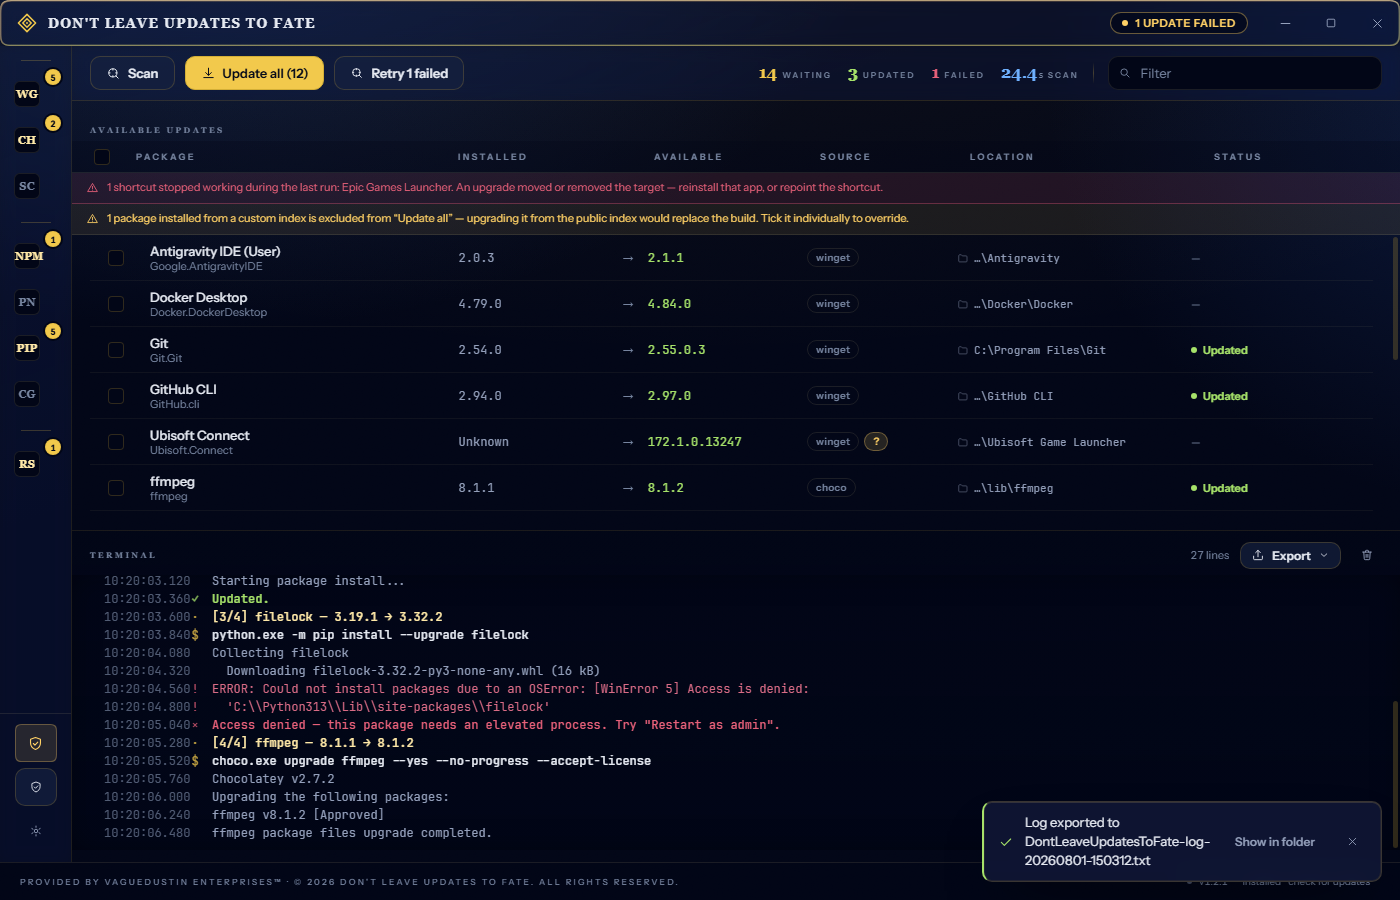
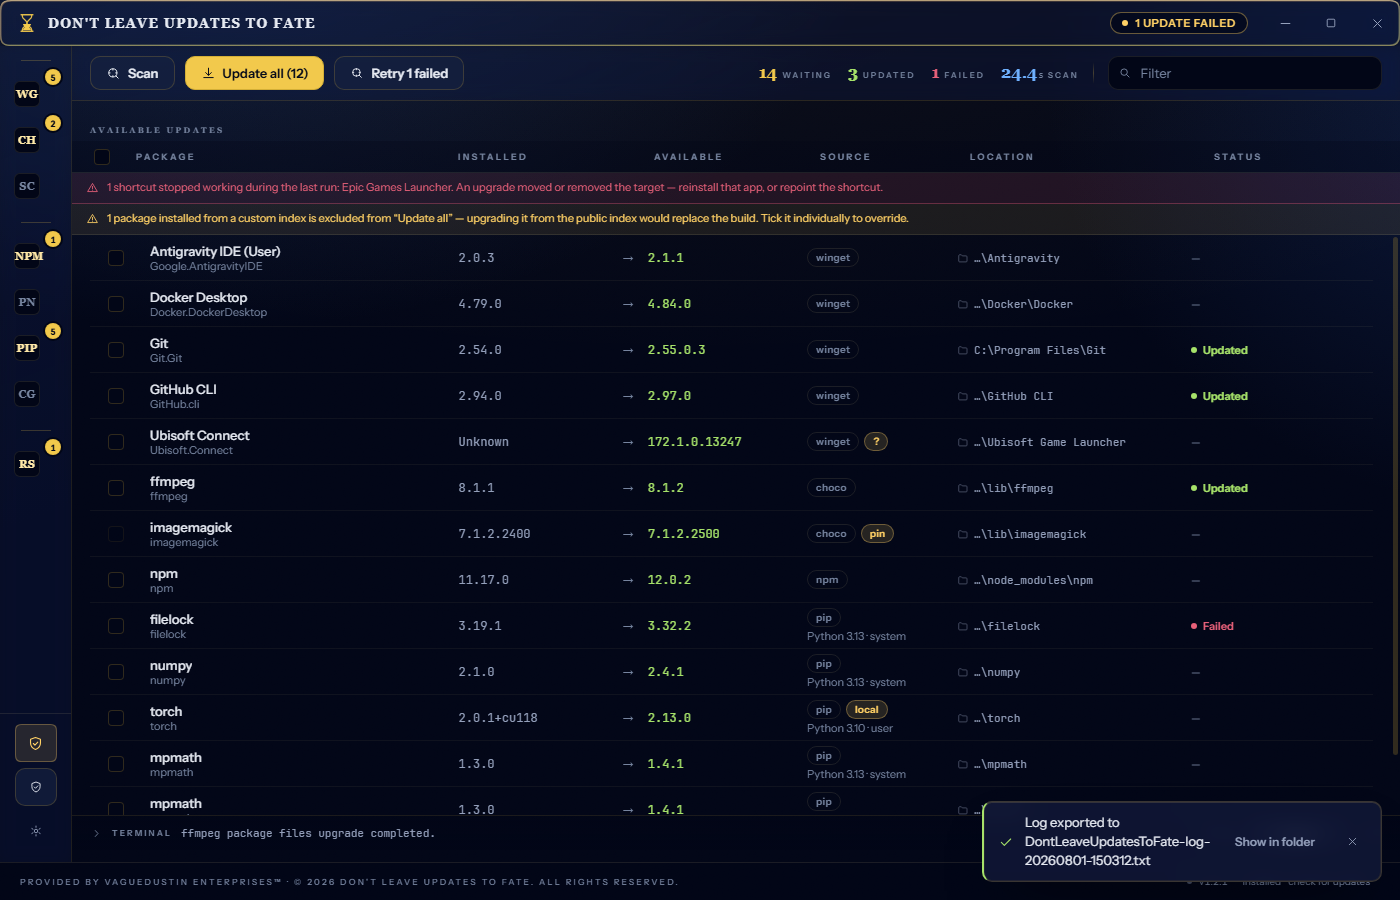
1.5.0 — the table tells you it is scrolling
Now that the table has no frame, nothing said the rows were sliding UNDER the
header rather than the whole region moving. A frame did that for free; without
one the cue has to be drawn, so the header casts a shadow that arrives over the
first 120px of travel and stays.

Driven by a real scroll timeline, not a scroll listener — verified: opacity 0 at
rest, 0.5 at 60px, 1 at 120px, with the animation's timeline reporting as
ScrollTimeline. `timeline-scope` on `.table` is load-bearing and was the reason
an earlier attempt at this would have silently done nothing: a named scroll
timeline is not visible to a PRECEDING sibling, and the header is rendered before
the scroller.

The shadow is its own element animating opacity rather than a box-shadow
keyframe on the header. box-shadow is a paint property; animating it would
repaint the header on every scroll tick, which is exactly the cost a scroll
timeline exists to avoid.

Screenshots regenerated for the console layout.

diff --git a/src/renderer/src/styles/fate/layout.css b/src/renderer/src/styles/fate/layout.css
@@ -727,3 +727,65 @@
     color: var(--accent-hover);
   }
 }
+
+/* ══════════════════════════════════════════════════════════════════════════════════════════════
+   SCROLL-DRIVEN ENGRAVING
+   Now that the table has no frame, nothing tells you the rows are sliding UNDER the header rather
+   than the whole region moving. A frame did that for free; without one, the cue has to be drawn.
+
+   `timeline-scope` is load-bearing and was verified: a named scroll timeline is NOT visible to a
+   PRECEDING sibling, and `.table__header` is rendered before `.table__scroll`. Without the scope on
+   their common ancestor the header's animation resolves to no timeline and simply never runs.
+   ══════════════════════════════════════════════════════════════════════════════════════════════ */
+
+.table {
+  timeline-scope: --table-scroll;
+}
+
+.table__scroll {
+  scroll-timeline: --table-scroll block;
+}
+
+/*
+  The shadow is its OWN element animating opacity, not a box-shadow keyframe on the header.
+  box-shadow is a paint property: animating it would repaint the header on every scroll tick, which
+  is precisely the cost a scroll timeline exists to avoid. Opacity on a dedicated layer runs on the
+  compositor.
+*/
+.table__header {
+  position: relative;
+  z-index: 2;
+}
+
+.table__header::after {
+  content: '';
+  position: absolute;
+  inset-inline: 0;
+  top: 100%;
+  height: 14px;
+  pointer-events: none;
+  opacity: 0;
+  background: linear-gradient(
+    color-mix(in oklab, var(--surface-base) 72%, transparent),
+    transparent
+  );
+  animation: plate-lift linear both;
+  animation-timeline: --table-scroll;
+  /* Fully drawn by 120px of travel — far enough to feel earned, short enough to appear immediately. */
+  animation-range: 0 120px;
+}
+
+@keyframes plate-lift {
+  to {
+    opacity: 1;
+  }
+}
+
+/* The terminal gets the same cue when it is open. */
+.term {
+  timeline-scope: --term-scroll;
+}
+
+.term__scroll {
+  scroll-timeline: --term-scroll block;
+}
